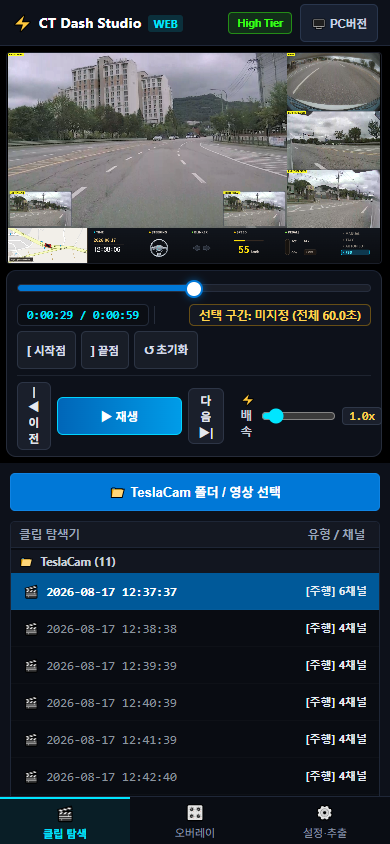
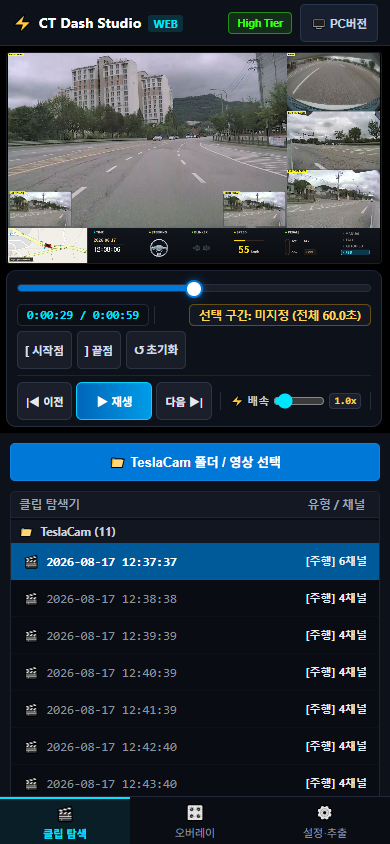
style: fix mobile playback buttons text wrapping

Changed region(s): [[0.0, 0.4005, 1.0, 0.955]]

diff --git a/src/style.css b/src/style.css
@@ -1278,9 +1278,78 @@ kbd {
       font-size: 11px;
     }
 
+    body:not(.view-desktop) .btn-range,
+    body.view-mobile .btn-range {
+      white-space: nowrap !important;
+      flex-shrink: 0 !important;
+      padding: 3px 7px !important;
+    }
+
     body:not(.view-desktop) .control-row-playback,
     body.view-mobile .control-row-playback {
+      display: flex;
+      align-items: center;
       justify-content: space-between;
+      gap: 6px;
+    }
+
+    body:not(.view-desktop) .transport-group,
+    body.view-mobile .transport-group {
+      display: flex;
+      align-items: center;
+      gap: 4px;
+      flex-shrink: 0;
+    }
+
+    body:not(.view-desktop) .btn-transport-sub,
+    body.view-mobile .btn-transport-sub {
+      padding: 4px 8px !important;
+      font-size: 11px !important;
+      white-space: nowrap !important;
+      flex-shrink: 0 !important;
+    }
+
+    body:not(.view-desktop) .btn-play-main,
+    body.view-mobile .btn-play-main {
+      min-width: 76px !important;
+      padding: 4px 10px !important;
+      font-size: 11.5px !important;
+      white-space: nowrap !important;
+      flex-shrink: 0 !important;
+    }
+
+    body:not(.view-desktop) .speed-cluster,
+    body.view-mobile .speed-cluster {
+      display: flex;
+      align-items: center;
+      gap: 4px;
+      flex-shrink: 0;
+    }
+
+    body:not(.view-desktop) #lbl-speed-tag,
+    body.view-mobile #lbl-speed-tag {
+      font-size: 11px !important;
+      white-space: nowrap !important;
+      flex-shrink: 0 !important;
+    }
+
+    body:not(.view-desktop) #slider-preview-speed,
+    body.view-mobile #slider-preview-speed {
+      width: 52px !important;
+      min-width: 44px !important;
+    }
+
+    body:not(.view-desktop) .speed-value-badge,
+    body.view-mobile .speed-value-badge {
+      font-size: 10px !important;
+      padding: 1px 4px !important;
+      white-space: nowrap !important;
+      flex-shrink: 0 !important;
+    }
+
+    body:not(.view-desktop) .speed-cluster .chk-item,
+    body.view-mobile .speed-cluster .chk-item {
+      display: none; /* 공간 절약을 위해 세로 모드에서는 체크박스 숨김 */
     }
 
     body:not(.view-desktop) .filter-cluster,
